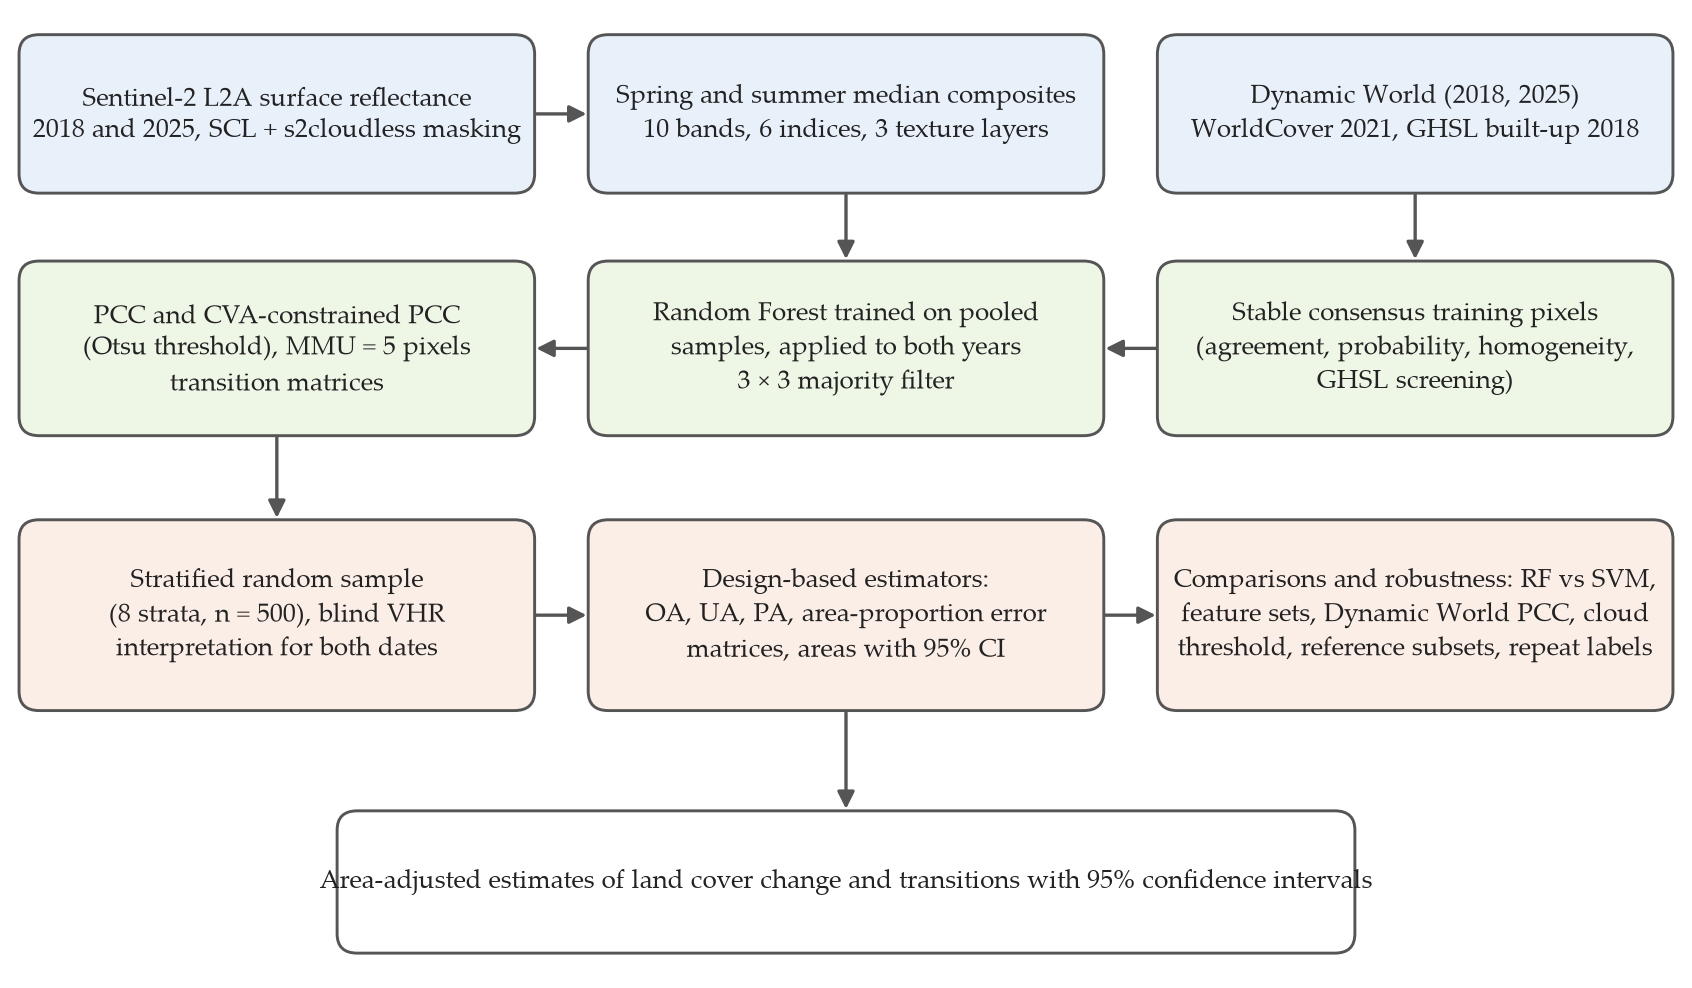
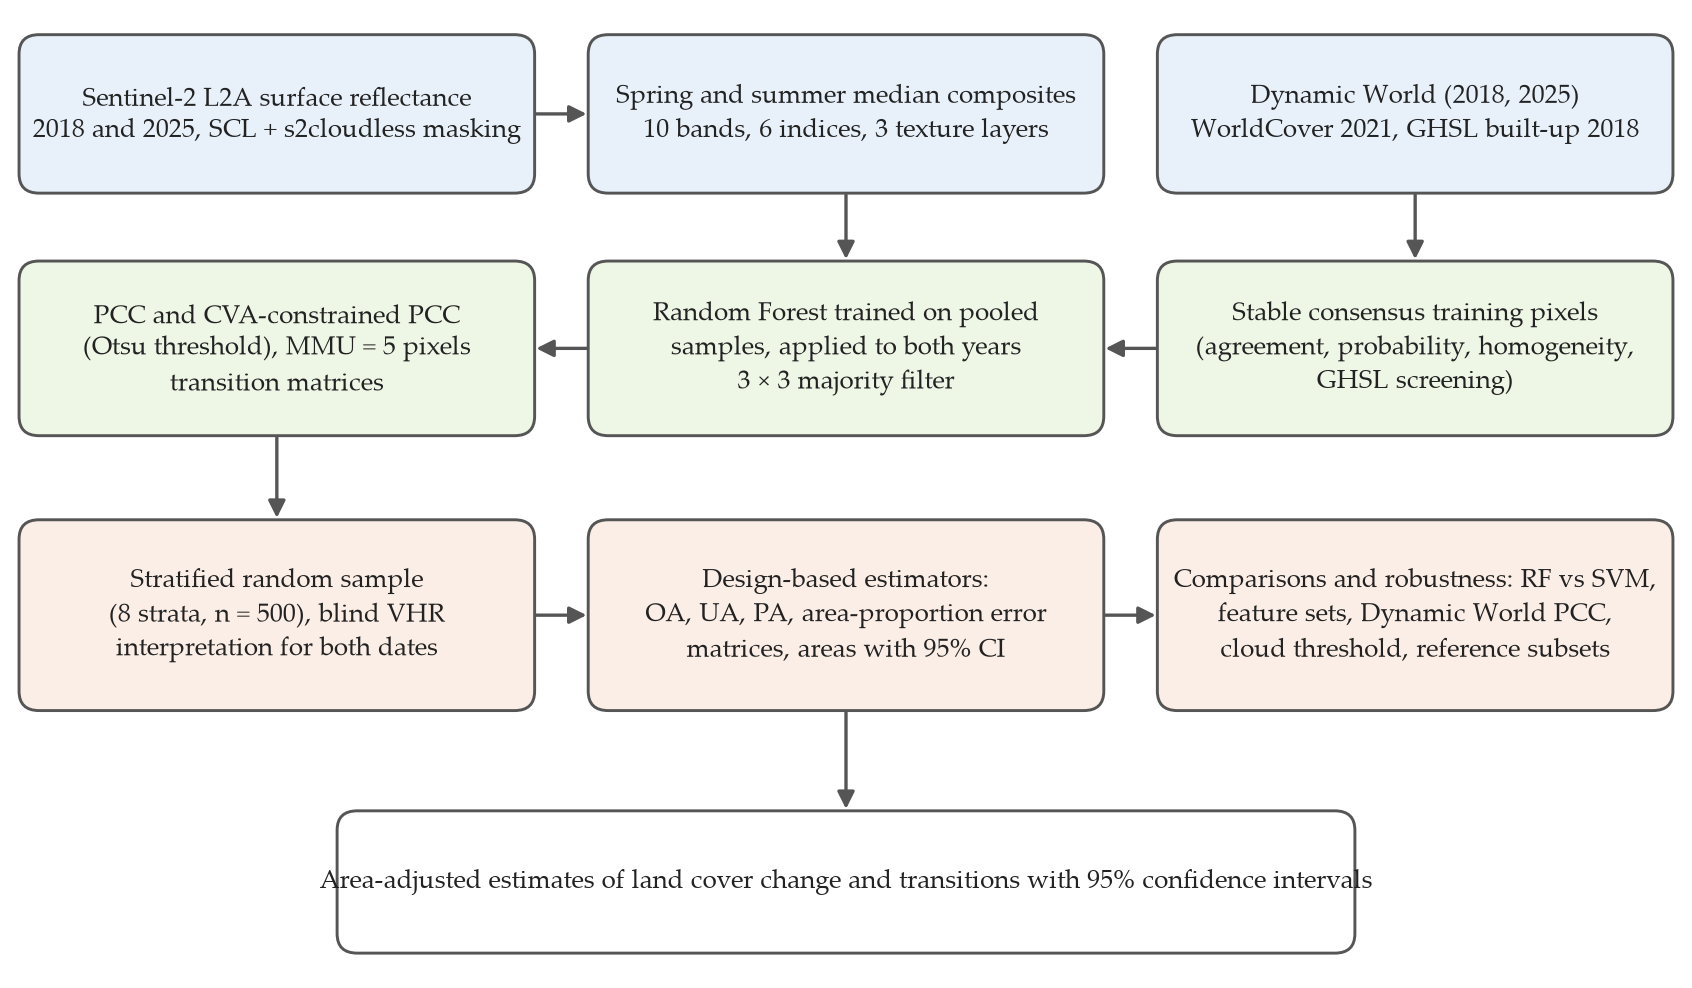
Remove repeat interpretation data and scripts; update workflow figure

Changed region(s): [[0.7069, 0.6073, 0.9835, 0.668]]

diff --git a/src/results_registry.py b/src/results_registry.py
@@ -51,7 +51,6 @@ SEP = load('spatial_separation.json')
 CVA = load('cva_by_reference_transition.csv').set_index('ref_transition')
 PERM = load('permutation_importance_grouped.csv').set_index('group')
 CLOUD = load('cloud_threshold_sensitivity.csv').set_index('threshold')
-REP = load('repeat_interpretation_agreement.json')
 TRAIN = load('training_sample_counts.csv').set_index('Unnamed: 0')
 INFO = load('rf_training_info.json')
 SCN = load('scene_stats.json')
@@ -172,9 +171,6 @@ for thr in (30, 50):
     c = CLOUD.loc[thr]; N[f'oa18_c{thr}'] = f1(100 * c.OA_2018); N[f'oa25_c{thr}'] = f1(100 * c.OA_2025)
     N[f'ua_c{thr}'] = f1(100 * c.change_UA)
 c = CLOUD.loc[40]; N['oa18_c40'] = f1(100 * c.OA_2018); N['oa25_c40'] = f1(100 * c.OA_2025); N['ua_c40'] = f1(100 * c.change_UA)
-N['rep_n'] = str(REP['n']); N['rep_18'] = f0(100 * REP['agree_2018']); N['rep_25'] = f0(100 * REP['agree_2025'])
-N['rep_both'] = f0(100 * REP['agree_both_dates']); N['rep_ch'] = f0(100 * REP['agree_change_nochange'])
-N['rep_high'] = f0(100 * REP['agree_by_confidence']['3']); N['rep_low'] = f0(100 * REP['agree_by_confidence']['1'])
 N['sep_med'] = f0(SEP['median_m']); N['sep_30'] = str(SEP['n_within_30m']); N['sep_100'] = str(SEP['n_within_100m'])
 N['sep_same'] = str(SEP['n_identical'])
 # experiments

diff --git a/README.md b/README.md
@@ -19,11 +19,10 @@ estimators (Olofsson et al. 2014; Stehman 2014).
 | `data/samples/training_points.csv` | Training locations (UTM 36N, grid row/column, class) |
 | `data/samples/validation_points.csv` | 500 validation pixels with stratum, coordinates and VHR acquisition dates |
 | `data/samples/reference_labels.csv` | Reference labels 2018 and 2025 and interpretation confidence (1 low to 3 high) |
-| `data/samples/repeat_labels.csv`, `repeat_key.csv` | Blind repeat interpretation of 100 validation pixels |
 | `data/samples/validation_sample_full_table.csv` | One row per validation pixel: coordinates, stratum, reference labels, confidence, Wayback release, VHR acquisition date and resolution, labels of the RF (PCC, CPCC) and Dynamic World maps, CVA magnitude, distance to the nearest training location |
 | `data/raw/` | Administrative boundaries used in the figures (FAO GAUL 2015) |
 | `outputs/maps/` | GeoTIFF, EPSG:32636, 10 m: RF maps (filtered and raw), maximum class probability, PCC and CPCC change codes (from class × 10 + to class), strata, CVA magnitude (× 1000) |
-| `outputs/tables/` | Error matrices in sample counts and area proportions, class and change accuracies, area and transition estimates, agreement with Dynamic World and ESA WorldCover, classifier and feature-set experiments, cloud-threshold and reference-subset sensitivity, repeat interpretation agreement, permutation importance, scene lists, Wayback release records |
+| `outputs/tables/` | Error matrices in sample counts and area proportions, class and change accuracies, area and transition estimates, agreement with Dynamic World and ESA WorldCover, classifier and feature-set experiments, cloud-threshold and reference-subset sensitivity, permutation importance, scene lists, Wayback release records |
 | `figures/` | Article figures (300 dpi) and the seasonal composites with valid observation counts |
 
 Class codes: 1 water, 2 tree cover, 3 low vegetation, 4 built-up, 5 bare/sparse.
@@ -41,8 +40,7 @@ Python 3.12, `pip install -r requirements.txt`, and a Google Earth Engine accoun
 5. `reference_chips.py`: interpretation sheets from the Esri Wayback service (not included in the repository)
 6. `evaluate.py`, `compare.py`, `sensitivity.py`, `diagnostics.py`: accuracy, area estimates and robustness
 7. `cloud_sensitivity.py`: cloud probability thresholds of 30, 40 and 50%
-8. `repeat_chips.py`, `repeat_agreement.py`: repeat interpretation
-9. `figures.py`: figures; `results_registry.py` collects every number reported in the article
+8. `figures.py`: figures; `results_registry.py` collects every number reported in the article
 
 Steps 1 to 4 require Earth Engine access and regenerate `data/processed/` (about 550 MB, not included), which the later steps also read.
 The main estimates of the article can be checked directly from the included maps and samples with
